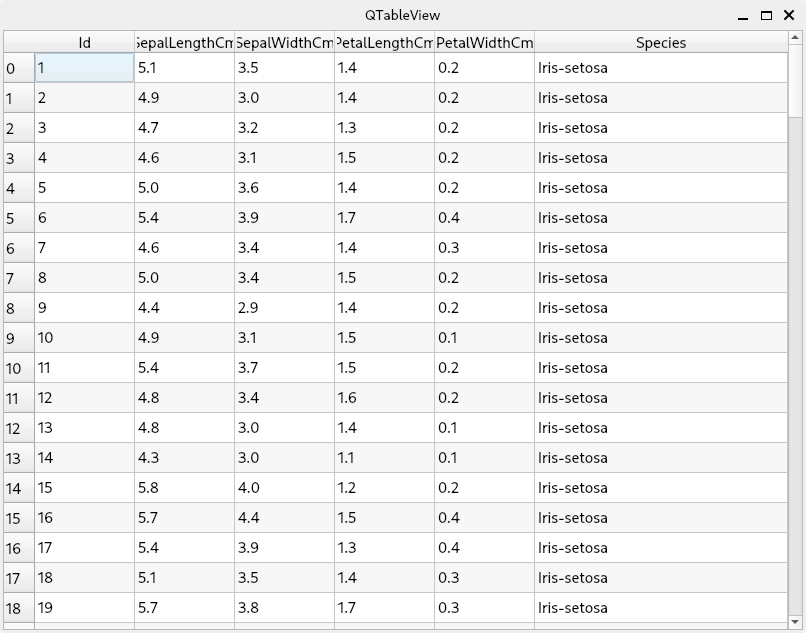
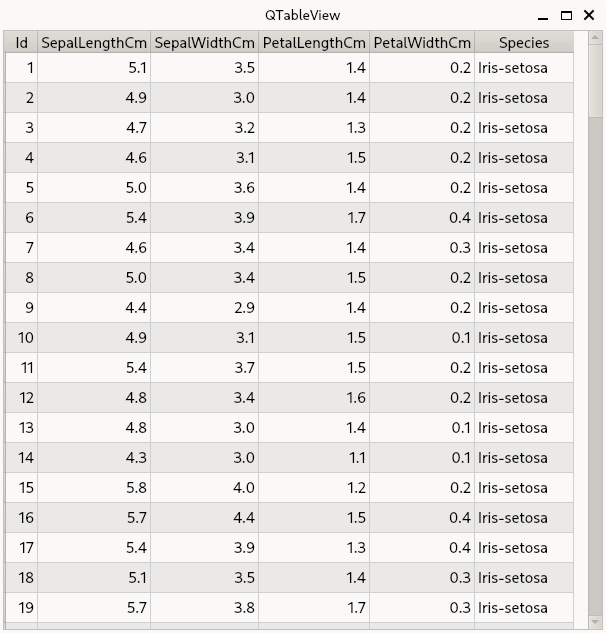
update

diff --git a/qt_tableview_dataframe.py b/qt_tableview_dataframe.py
@@ -7,7 +7,7 @@ import sys
 from PySide6.QtWidgets import (
     QTableView,
     QApplication,
-    QMainWindow, QHeaderView,
+    QMainWindow, QHeaderView, QSizePolicy,
 )
 
 from qt_model_dataframe import PandasModel
@@ -19,7 +19,7 @@ class Example(QMainWindow):
         df = pd.read_csv('iris.csv')
         self.init_ui(df)
         self.setWindowTitle('QTableView')
-        self.resize(800, 600)
+        self.resize(600, 600)
 
     def init_ui(self, df: pd.DataFrame):
         view = QTableView()
